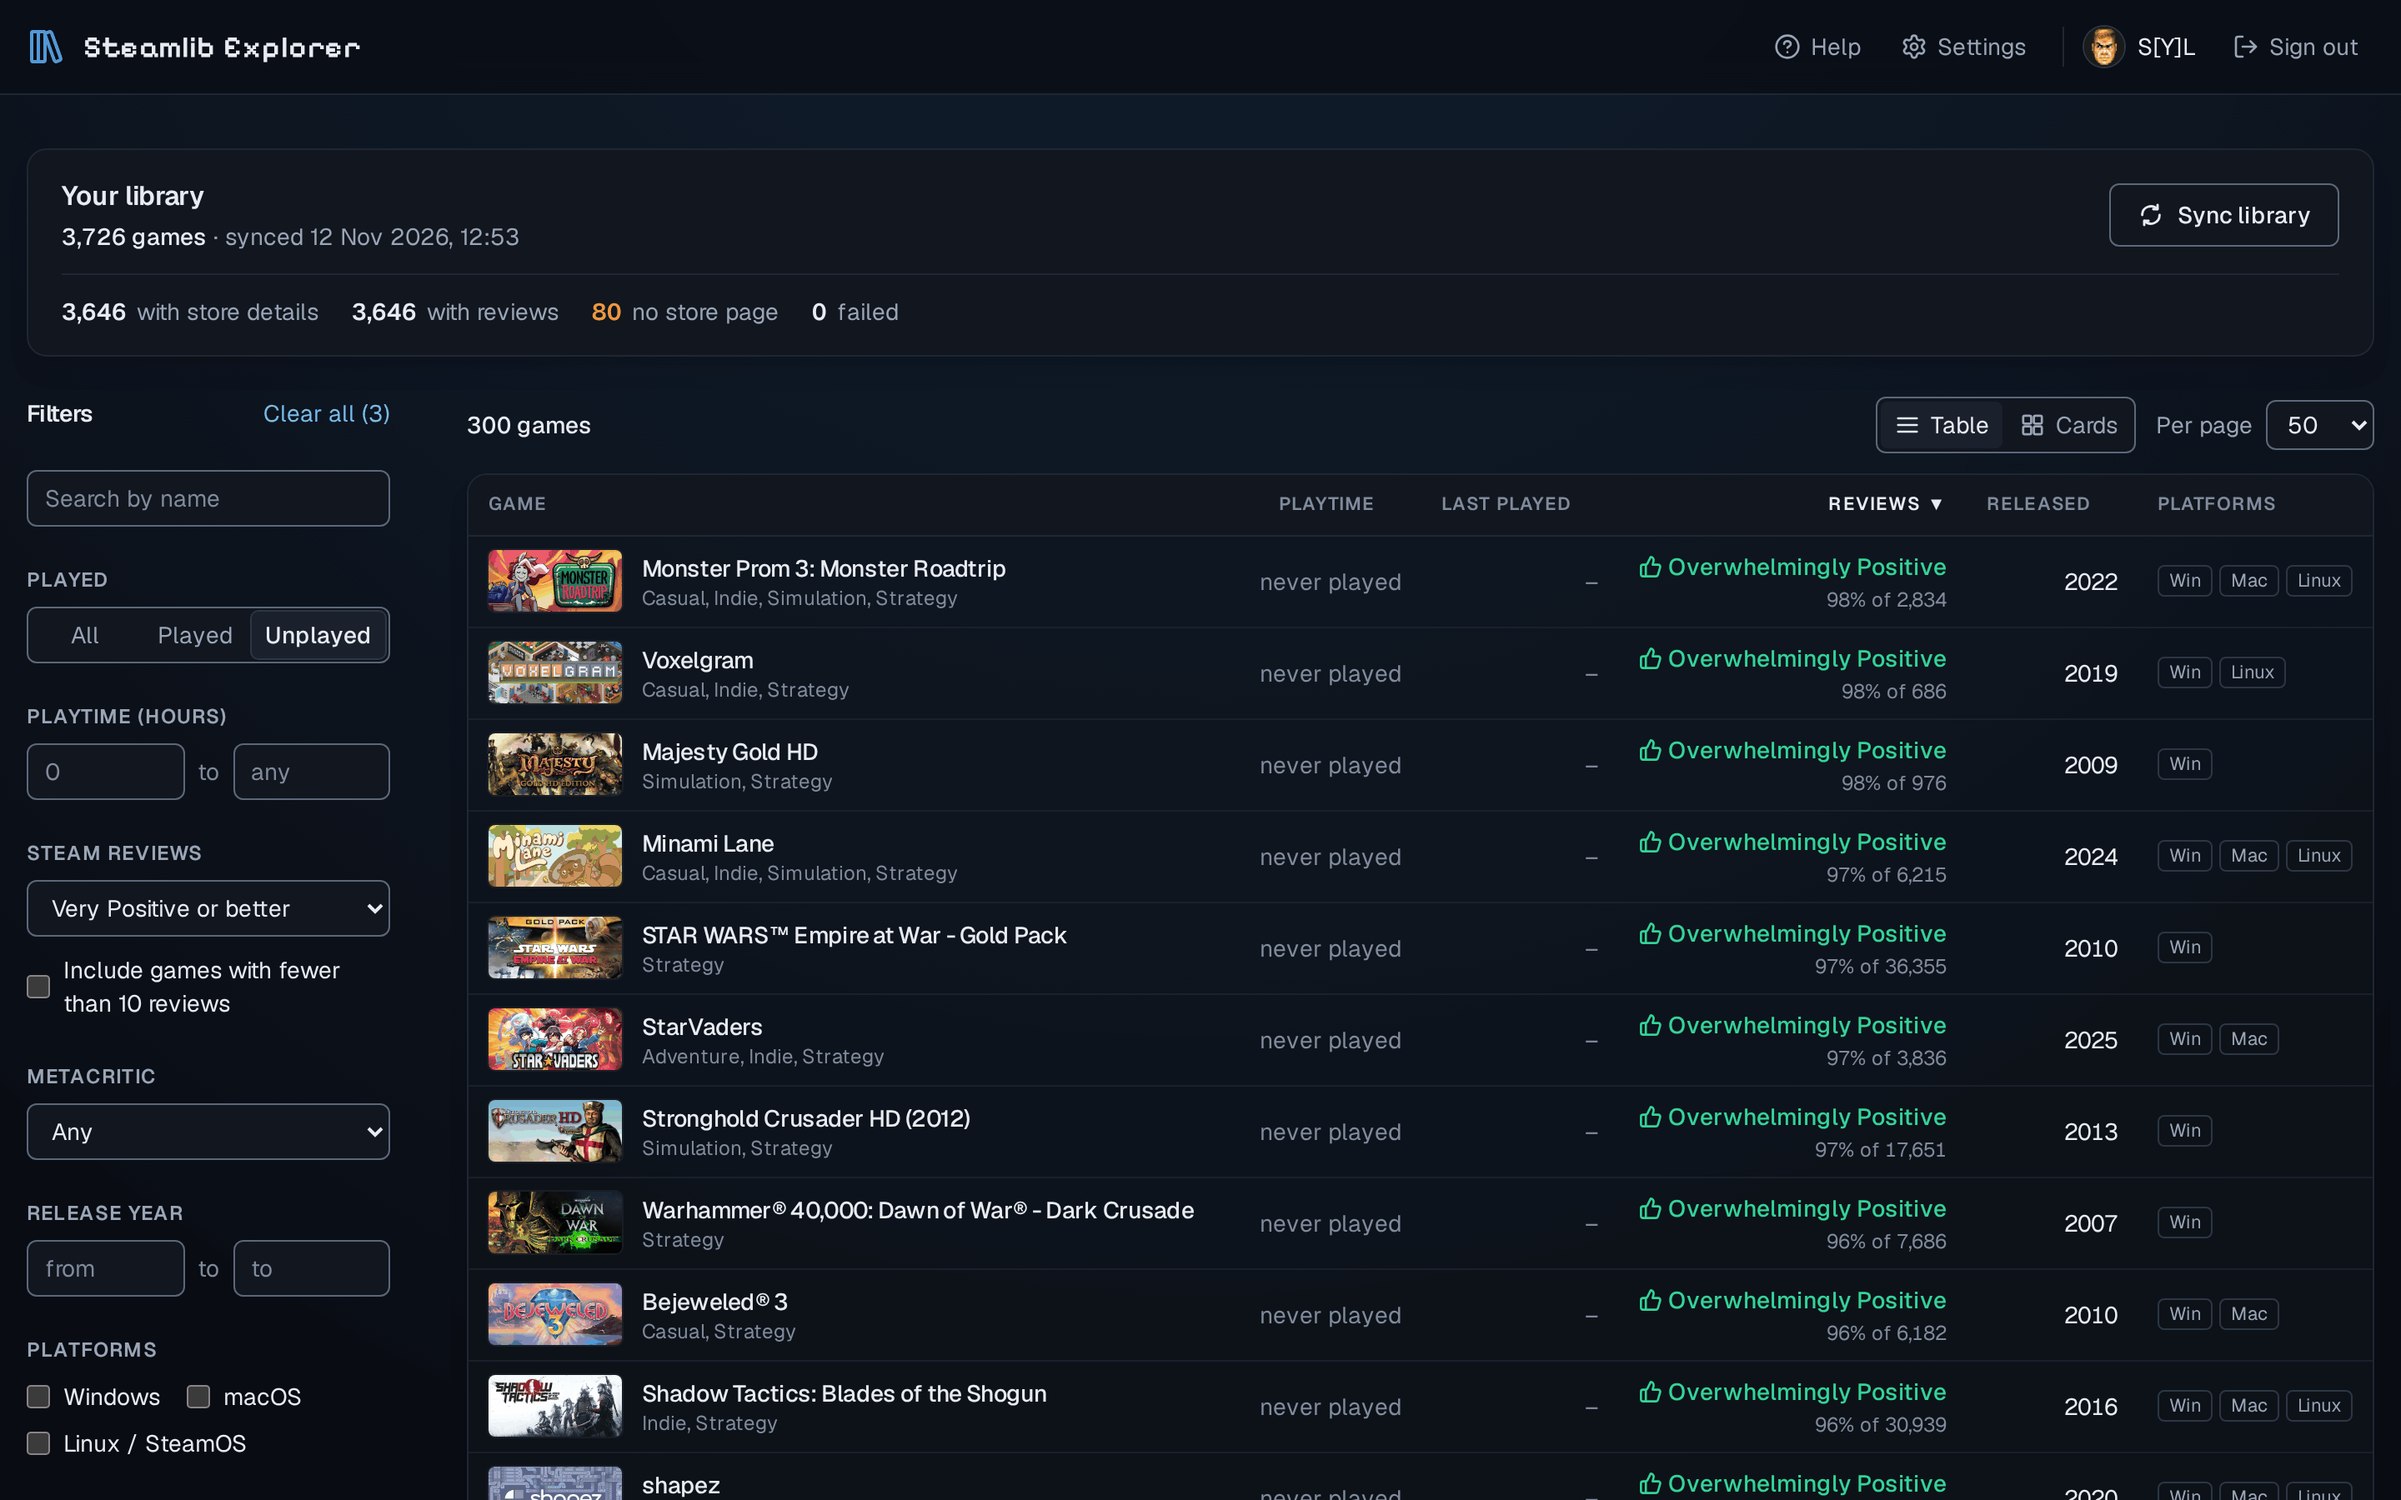
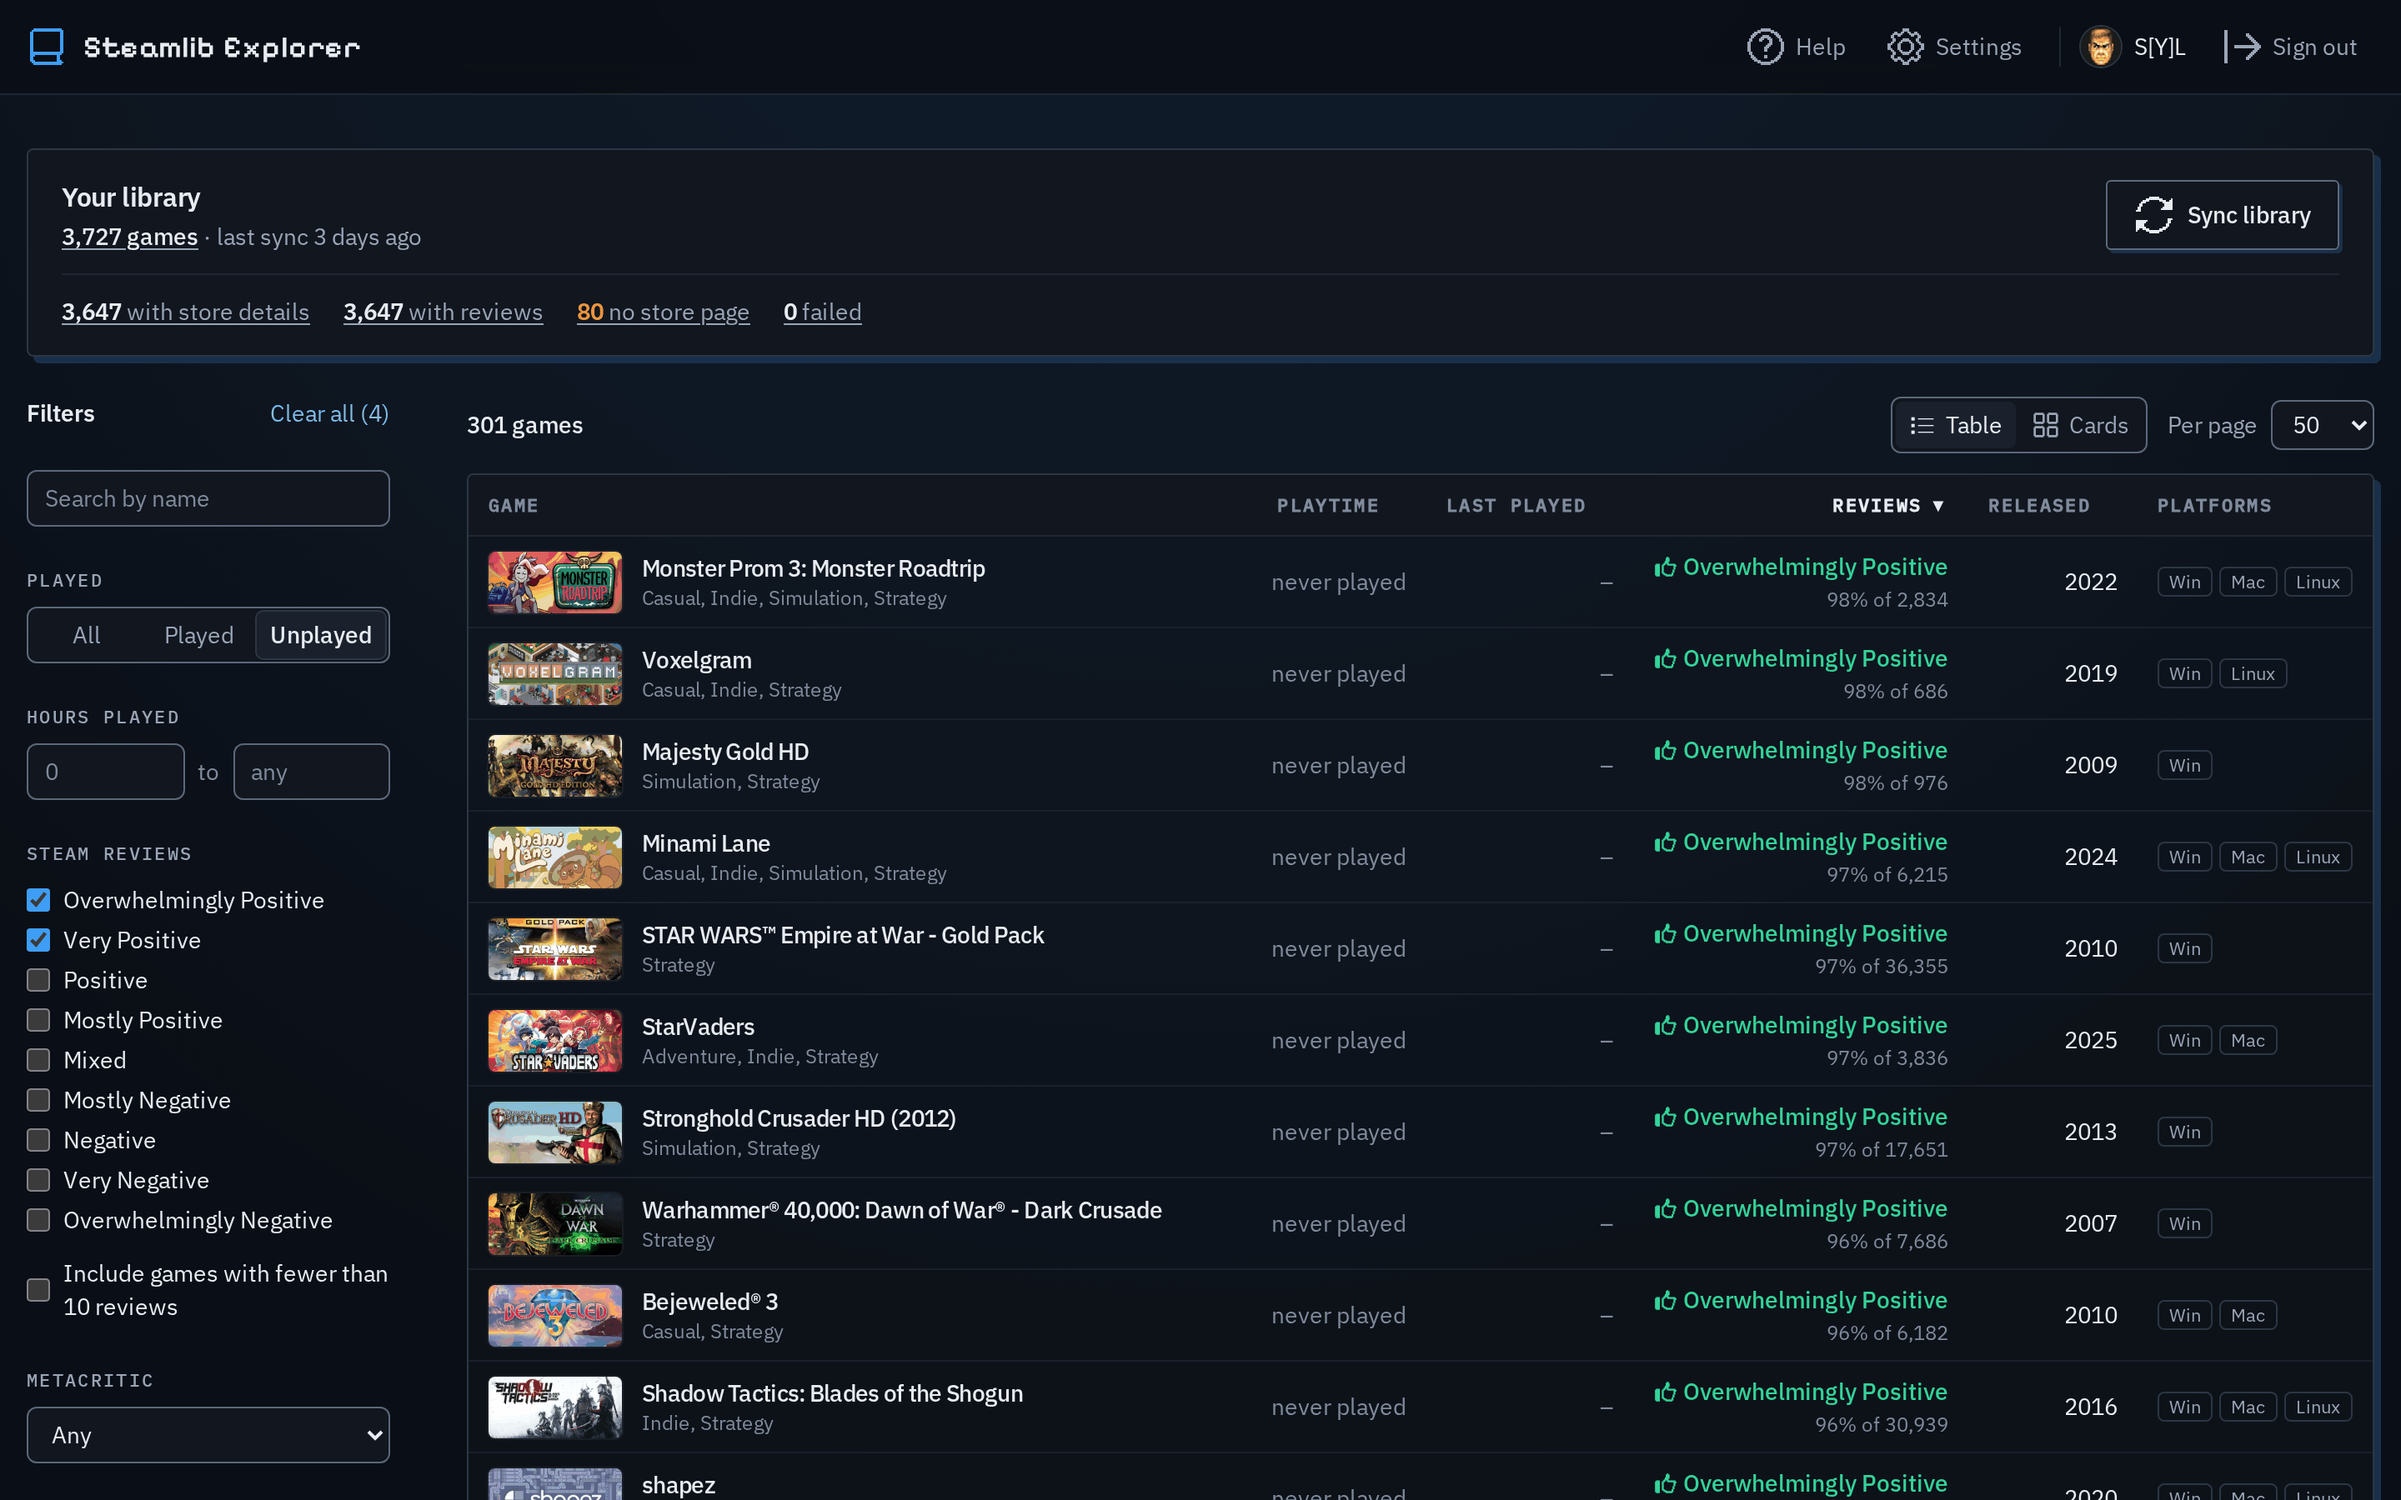
Refresh README screenshots with the new look
Retaken from a copy of the real library with the HackerNoon pixel icons,
IBM Plex fonts and hard shadows (#68, #69, #70). Same views and size as
before: 1440x900 at 2x, Midnight theme, quantized to 256 colours.

Claude-Session: https://claude.ai/code/session_01U92vfvqimAJchV8BmvH8MG

diff --git a/README.md b/README.md
@@ -9,7 +9,7 @@ There are two ways to run it: [download the app](#download-the-app) from GitHub 
 
 | Cards view | Filtered: unplayed strategy games rated Very Positive or better |
 | --- | --- |
-| ![Your library as cards with header images](docs/screenshots/explorer-cards.png) | ![300 unplayed strategy games with Very Positive or better reviews](docs/screenshots/explorer-filtered.png) |
+| ![Your library as cards with header images](docs/screenshots/explorer-cards.png) | ![301 unplayed strategy games with Very Positive or better reviews](docs/screenshots/explorer-filtered.png) |
 
 <details>
 <summary>Settings: themes, high contrast and text size</summary>
